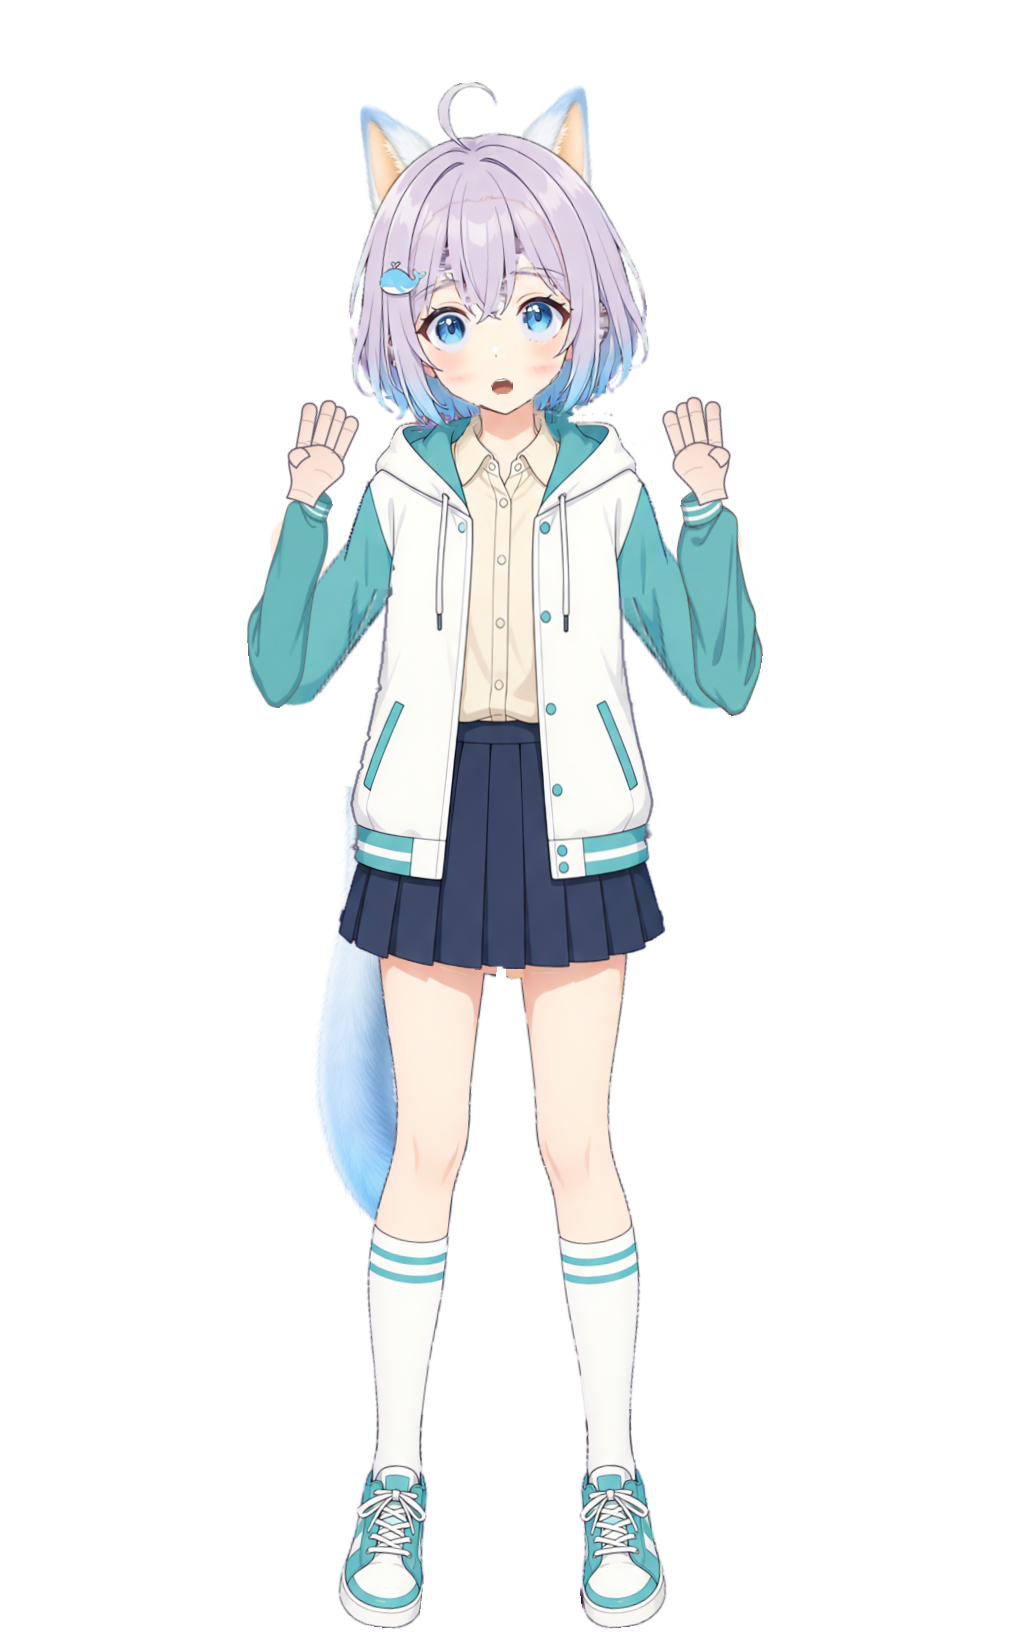
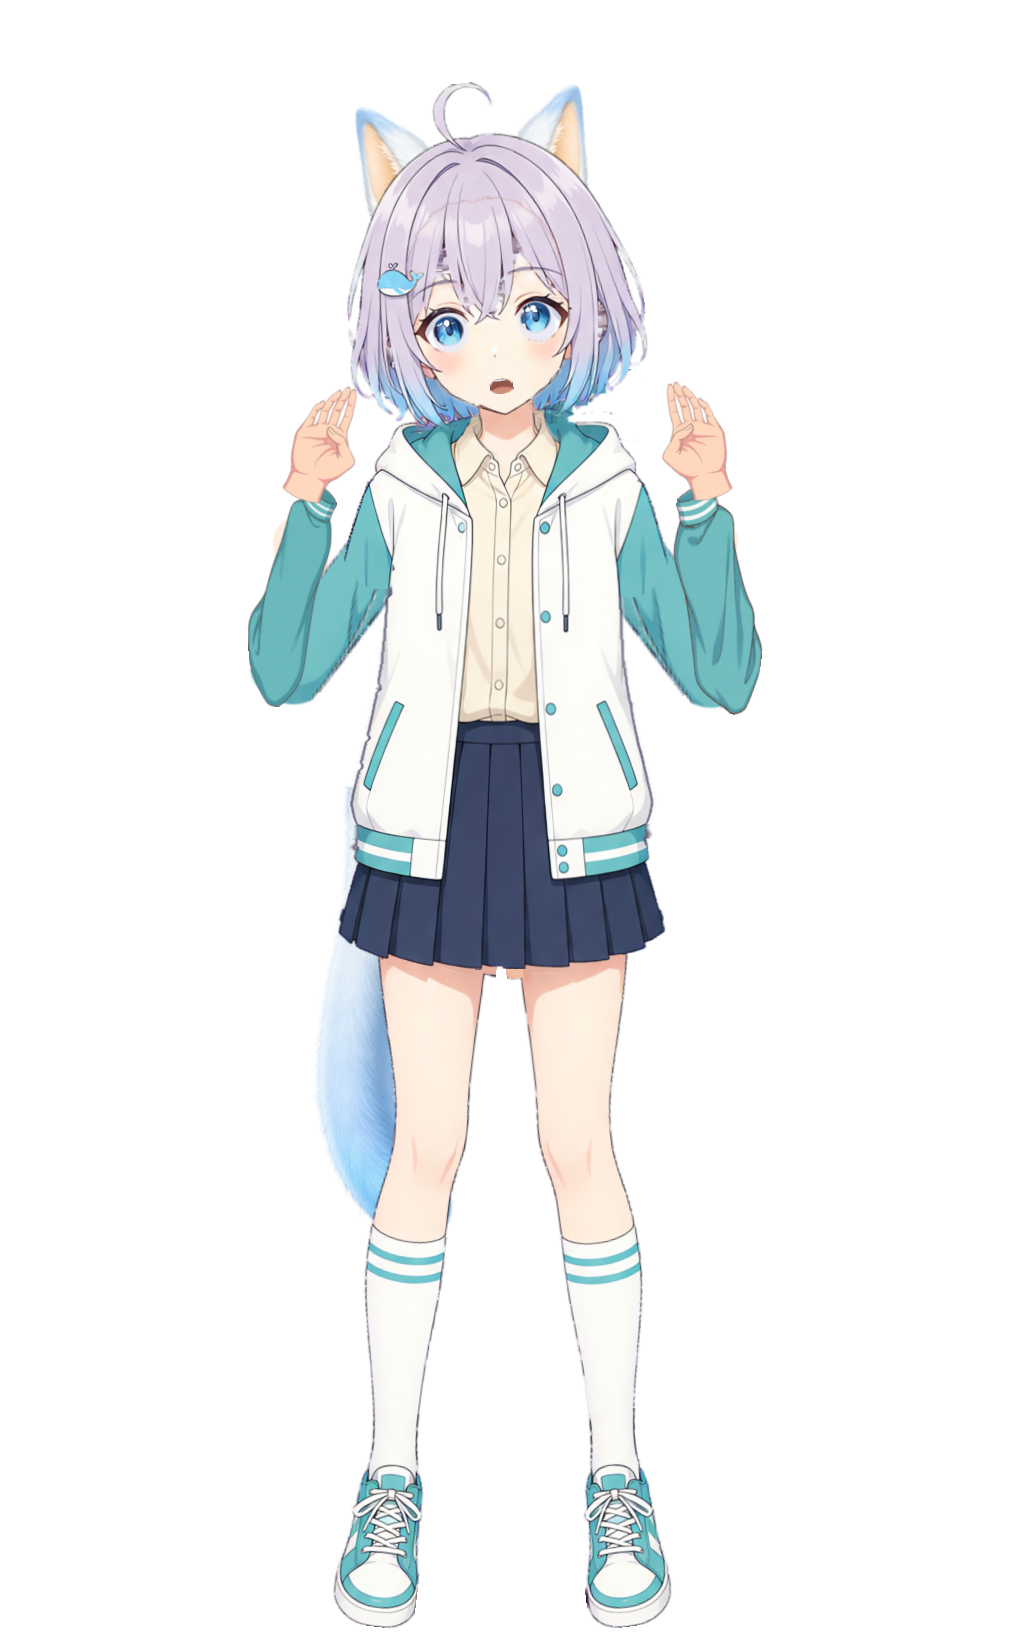
Refine T31.20 surprised hand sprites and QA

diff --git a/tools/generate_surprised_hands.py b/tools/generate_surprised_hands.py
@@ -1,0 +1,116 @@
+#!/usr/bin/env python3
+# -*- coding: utf-8 -*-
+"""Build teen Xiaoxun's surprised-hand sprite pair from its keyed art source.
+
+The art source is a single hand facing the viewer, fingers gently gathered and
+curled. The opposite hand is mirrored so its tucked thumb points toward the
+character's center. Both resolutions are produced from one high-resolution
+alpha image to keep the 1x/@2x silhouettes exactly aligned.
+"""
+from __future__ import annotations
+
+import argparse
+from pathlib import Path
+
+import numpy as np
+from PIL import Image
+
+SIZE = (86, 109)
+TARGET_BOX_2X = (156, 204)
+MARGIN_TOP_2X = 6
+HORIZONTAL_SHAPE_FACTOR = 1.28
+
+
+def key_magenta(image: Image.Image) -> Image.Image:
+    """Remove the flat magenta key while retaining antialiased line edges."""
+    rgb = np.asarray(image.convert("RGB"), dtype=np.float32)
+    r, g, b = rgb[:, :, 0], rgb[:, :, 1], rgb[:, :, 2]
+    magenta = np.clip((np.minimum(r, b) - g) / 180.0, 0.0, 1.0)
+    alpha = np.clip(1.0 - magenta * 1.35, 0.0, 1.0)
+
+    # Despill magenta from partially transparent edge pixels.
+    edge = (alpha > 0.02) & (alpha < 0.98)
+    green = g.copy()
+    green[edge] = np.maximum(green[edge], (r[edge] + b[edge]) * 0.46)
+    rgba = np.dstack((r, green, b, alpha * 255.0)).clip(0, 255).astype(np.uint8)
+    return Image.fromarray(rgba, "RGBA")
+
+
+def gather_fingers(image: Image.Image) -> Image.Image:
+    """Gently bring the raised fingers toward one another above the palm.
+
+    The source illustration is a five-fingered hand, but generative art tends to
+    over-spread the upper fingers. A smooth row-wise remap narrows only the
+    finger fan (0.68x at the tips, back to 1.0x across the palm), preserving the
+    hand's painted contours instead of redrawing them as geometric shapes.
+    """
+    rgba = np.asarray(image, dtype=np.float32)
+    h, w = rgba.shape[:2]
+    x = np.arange(w, dtype=np.float32)
+    center = (w - 1) * 0.5
+    out = np.zeros_like(rgba)
+    for y in range(h):
+        t = np.clip((y / max(1, h - 1) - 0.38) / 0.17, 0.0, 1.0)
+        t = t * t * (3.0 - 2.0 * t)
+        factor = 0.68 + 0.32 * t
+        source_x = center + (x - center) / factor
+        x0 = np.floor(source_x).astype(np.int32)
+        frac = (source_x - x0)[:, None]
+        valid = (x0 >= 0) & (x0 + 1 < w)
+        x0 = np.clip(x0, 0, w - 2)
+        row = rgba[y]
+        out[y, valid] = row[x0[valid]] * (1.0 - frac[valid]) + row[x0[valid] + 1] * frac[valid]
+    return Image.fromarray(np.clip(out, 0, 255).astype(np.uint8), "RGBA")
+
+
+def prepare_source(path: Path) -> Image.Image:
+    image = gather_fingers(key_magenta(Image.open(path)))
+    alpha = image.getchannel("A")
+    bbox = alpha.point(lambda p: 255 if p > 20 else 0).getbbox()
+    if not bbox:
+        raise ValueError(f"no hand pixels after chroma key: {path}")
+
+    hand = image.crop(bbox)
+    # The generated pose is intentionally a little slimmer than the raw crop;
+    # normalize width only, preserving finger and palm length.
+    hand = hand.resize((round(hand.width * HORIZONTAL_SHAPE_FACTOR), hand.height),
+                       Image.Resampling.LANCZOS)
+    hand.thumbnail(TARGET_BOX_2X, Image.Resampling.LANCZOS)
+
+    canvas = Image.new("RGBA", (SIZE[0] * 2, SIZE[1] * 2), (0, 0, 0, 0))
+    canvas.alpha_composite(hand, ((canvas.width - hand.width) // 2, MARGIN_TOP_2X))
+    # Part-space faces the same way as the existing surprise hand slot; the
+    # hand group performs the authored wrist rotation at runtime.
+    return canvas.rotate(180, resample=Image.Resampling.BICUBIC, expand=False)
+
+
+def main() -> int:
+    ap = argparse.ArgumentParser()
+    ap.add_argument("--root", type=Path, default=Path("."))
+    ap.add_argument("--form", default="teen")
+    args = ap.parse_args()
+
+    root = args.root.resolve()
+    design = root / "characters/xiaoxun/design/hands/hand_surprised_raw.png"
+    sprites = root / "characters/xiaoxun/forms" / args.form / "sprites"
+    right = prepare_source(design)
+    left = right.transpose(Image.Transpose.FLIP_LEFT_RIGHT)
+
+    for side, artwork in (("l", left), ("r", right)):
+        one = artwork.resize(SIZE, Image.Resampling.LANCZOS)
+        one_path = sprites / f"hand_{side}_surprised.png"
+        two_path = sprites / f"hand_{side}_surprised@2x.png"
+        one.save(one_path)
+        artwork.save(two_path)
+        # Guard exact 2x alignment and reject chroma residue in transparent pixels.
+        if artwork.size != (one.width * 2, one.height * 2):
+            raise AssertionError(f"1x/@2x size mismatch: {side}")
+        rgba = np.asarray(artwork)
+        if np.any(rgba[rgba[:, :, 3] == 0, :3] != 0):
+            raise AssertionError(f"transparent pixels must be clean RGB zero: {side}")
+        print(f"{one_path}: {one.size}; {two_path}: {artwork.size}")
+    return 0
+
+
+if __name__ == "__main__":
+    raise SystemExit(main())

diff --git a/tools/selfcheck_repo.py b/tools/selfcheck_repo.py
@@ -597,6 +597,35 @@ def check_rig(root):
         check("关键帧曲线写法合法", not badkeys,
               f"坏关键帧 {badkeys[:3]}" if badkeys else f"{nkey} 条关键帧通道")
 
+        # T31 按主人的参考图验收：惊讶必须是全身姿态+睁眼 O 嘴；开心是闭嘴笑；
+        # talk 有程序回退的嘴形变化，真实语音再由音素轨接管。
+        action_by_id = {a.get("id"): a for a in r.get("actions", [])}
+        def channel(aid, target):
+            return next((c for c in action_by_id.get(aid, {}).get("channels", [])
+                         if c.get("target") == target), None)
+        happy_form = channel("happy", "ParamMouthForm")
+        happy_open = channel("happy", "ParamMouthOpenY")
+        talk_form = channel("talk", "ParamMouthForm")
+        talk_open = channel("talk", "ParamMouthOpenY")
+        surprise_form = channel("surprised", "ParamMouthForm")
+        surprise_open = channel("surprised", "ParamMouthOpenY")
+        check("开心动作闭嘴并抬嘴角", bool(happy_form and happy_form.get("amp", 0) > 0
+                                               and not happy_open),
+              "happy 应驱动正向 ParamMouthForm，不得张开 ParamMouthOpenY")
+        check("talk 动作兼有开合与宽窄嘴形", bool(talk_form and talk_open),
+              "talk 应同时驱动 ParamMouthOpenY 与 ParamMouthForm")
+        check("惊讶动作是 O 嘴", bool(surprise_form and surprise_form.get("amp", 0) < 0
+                                             and surprise_open and surprise_open.get("amp", 0) > 0),
+              "surprised 应同时张嘴并驱动负向 ParamMouthForm")
+        if any(p.startswith("arm_") and p.endswith("_fore") for p in pids):
+            surprised = action_by_id.get("surprised", {})
+            targets = {c.get("target") for c in surprised.get("channels", [])}
+            need = {"ParamArmLA", "ParamArmRA", "ParamArmLB", "ParamArmRB",
+                    "ParamHandLSurprised", "ParamHandRSurprised",
+                    "ParamEyeLWide", "ParamEyeRWide"}
+            check("惊讶动作覆盖双臂/专用手/瞪眼", need <= targets,
+                  f"缺少 {sorted(need - targets)}")
+
 
 
 # ------------------------------------------------- 3.5 Live2D 标准合规（静态）
@@ -658,6 +687,11 @@ L2D_EXTENSIONS = {
                       "折肘时沿肘→腕轴线拉长 26px（116→142 = 0.87），"
                       "hand_? 组 dx/dy 同步外移；静止时为 0，画面一个像素不动",
     "ParamForeLongL": "同上，左前臂",
+    "ParamSurpriseElbowHide": "惊讶动作的特定 alpha 门控：折肘时隐藏会浮出的 gusset/seam；默认与其他动作保持原样",
+    "ParamSurpriseForeshorten": "Teen surprised 专用上臂透视短缩：局部 sy≈0.841，使实际肩—肘距离约为 bind 的 0.848；同步内移肘 pivot，前臂与手不缩放，其他动作值为 0（T31.19）",
+    "ParamSurpriseArmSwap": "Teen surprised 专用弯袖差分切换：动作峰值时隐藏自然下垂袖片并显示弯曲前臂袖片；其他动作保持原素材",
+    "ParamHandLSurprised": "Teen surprised 专用左手差分：与弯袖口配套，手指微曲并拢，仅动作期间替换常态手",
+    "ParamHandRSurprised": "Teen surprised 专用右手差分：与弯袖口配套，手指微曲并拢，仅动作期间替换常态手",
     "ParamForeSwayL": "左前臂袖管自己摆（T66.17 / 第六十六问 S3）。前面四条 Fore* 都是"
                       "**网格**（逐顶点），只能表达『参数越大、那几行挪得越多』；袖管要的"
                       "是 Live2D 那种『肘先动、袖口慢半拍追』的分层摆，那必须是**骨链**"
@@ -3252,7 +3286,8 @@ def check_live2d(root):
         r = jsonc(rp)
         known = {q["id"] for q in r.get("params", [])} | {
             "ParamAngleX", "ParamAngleY", "ParamEyeOpen", "ParamEyeLOpen", "ParamEyeROpen",
-            "ParamEyeLSmile", "ParamEyeRSmile", "ParamEyeBallX", "ParamEyeBallY"}
+            "ParamEyeLSmile", "ParamEyeRSmile", "ParamEyeBallX", "ParamEyeBallY",
+            "ParamEyeLWide", "ParamEyeRWide"}
         geom, unknown = [], []
         nch = 0
         for a_ in r.get("actions", []):

diff --git a/docs/LIVE2D_CONFORMANCE.md b/docs/LIVE2D_CONFORMANCE.md
@@ -101,6 +101,8 @@ I/U/E/O 音素口型（G37）、瞳孔缩放（`ParamPupilScale` 原 `ParamEyeBa
 | `ParamForeLongR` / `ParamForeLongL` | 前臂「折肘时沿轴加长」（ワープデフォーマ `arm_?_fore_long`，2×4 网格，和 `_slim` 挂在同一件上逐点相加；另带 `hand_?` 组 dx/dy 让手跟着袖口外移）。第四十八问：用户说「小臂有一些偏短」。对着参考模板 `pose_ref/wave_up.png` 等比并排量过 —— 参考 前臂/上臂 = 150/173 = **0.87**，我们 116/162 = **0.71**，相对短 18%，折起来就是「吊在袖口下的一只拳套」。原画是一条垂着的胳膊，肘的切点由原画决定、改不了；能改的是折肘那一刻把前臂沿自己的轴线拉长 **26px（+22%）** ⇒ 142/162 = 0.873。行权重 (0, .15, .55, 1, 1)：肘端 0（关节正圆一个像素不动，折起来不裂缝）、袖口两行同值（条纹刚性平移、不拉椭圆）。0 = 原件，静止画面零改动 |
 | `ParamSurpriseElbowHide` | 仅 `surprised` 动作使用的扩展门控：用 alpha 乘算隐藏脸侧折肘角度下会飘出的 gusset/seam。默认 0，不影响 `wave` 等其他动作；由该动作脉冲至 1 后，动作退场时复位。它是动作特定的绘制修正，不是新骨骼/新贴图。 |
 | `ParamSurpriseForeshorten` | **Teen `surprised` 专用上臂透视短缩（T31.19）**：只在该动作折臂时将上臂局部 `sy` 乘到约 0.841，并补偿肘 pivot，使视觉肩—肘距离约为 bind 的 0.848；肘以下前臂与手保持原尺度。用于让双腕优先贴近嘴角—下巴外侧、避免「螃蟹手」。默认/动作外为 0，不影响 `happy`、`talk`、`wave` 或袖片；chibi 仍受单张合成原画限制。 |
+| `ParamSurpriseArmSwap` | Teen `surprised` 专用袖片切换：动作中隐藏自然下垂的袖件、换成独立弯曲前臂袖片；其他动作不改。 |
+| `ParamHandLSurprised` / `ParamHandRSurprised` | Teen `surprised` 专用左右手差分：手指微曲并拢、拇指内收；只在该动作期间替换常态手，并与弯袖口叠放。 |
 | `ParamTiptoe` | 踮脚。`root.dy` 上提 7px + 两腿 `curve:"tip"`（顶固定、底最大，作用在脚踝）收 5px。裙摆下沿不动所以不露底 |
 | `ParamHairAhoge` / `ParamHairAhogeS` | 标准只有 Front/Side/Back/Fluffy，呆毛是这个角色的招牌 |
 | `ParamHairSideS` | 侧发的 S 形（FFD），和整体摆动分开 |
